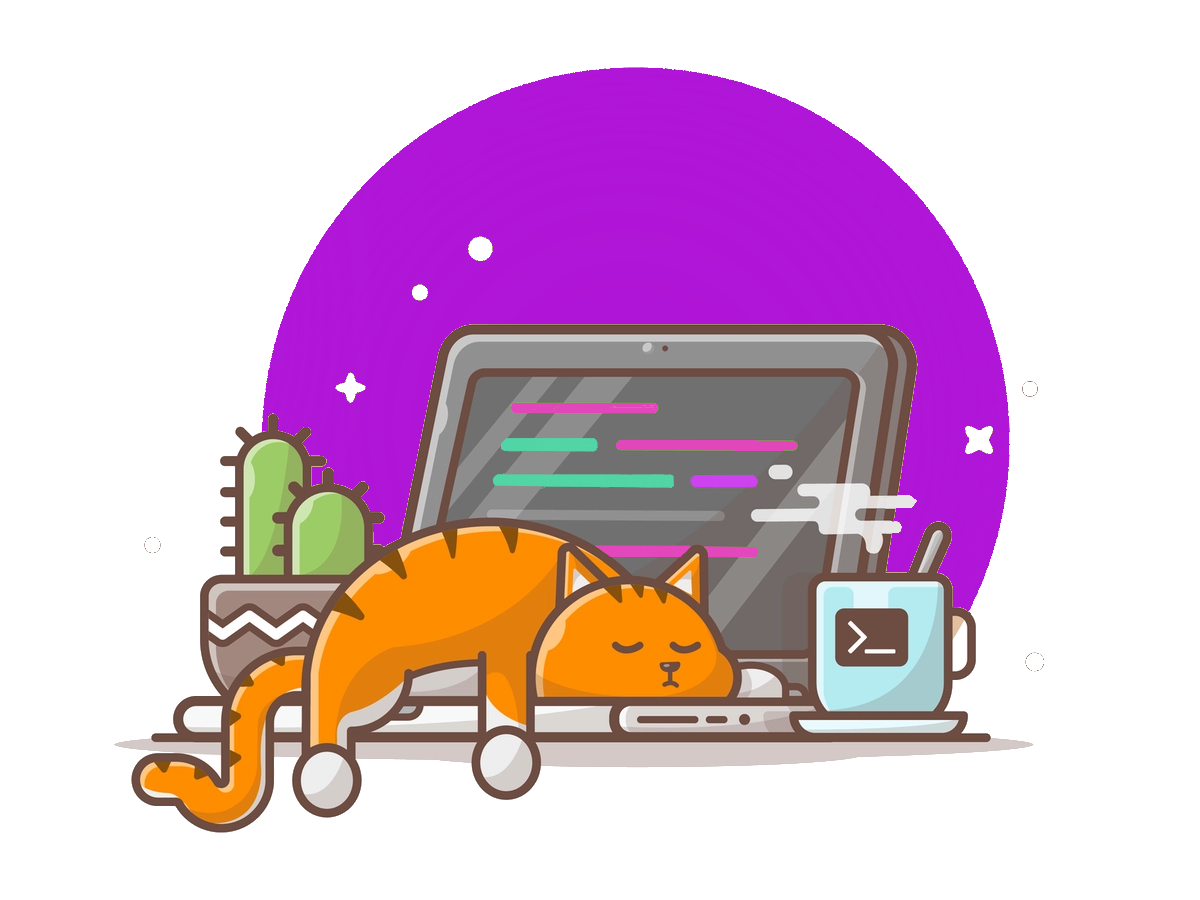
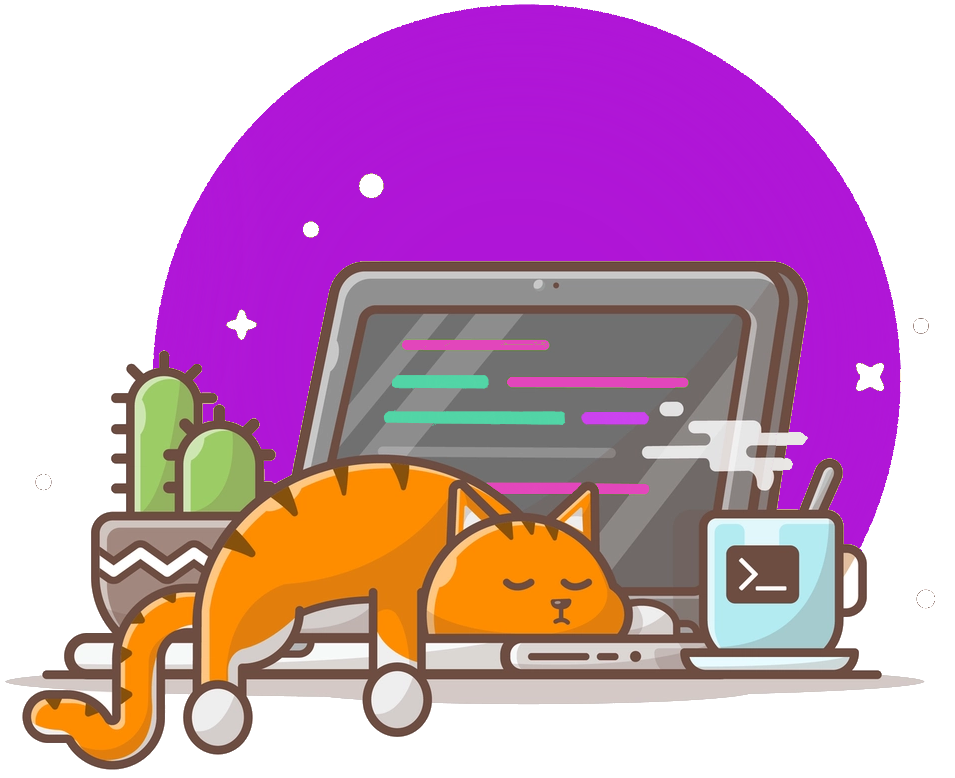
Agregue imagenes, reemplaze algunos lorem por texto, cambie el fondo del Footer e hice cambios en la seccion contactame, en los iconos

diff --git a/index.html b/index.html
@@ -46,7 +46,7 @@
                     </div>
 
                     <div class="box-hola-img">
-                        <img src="img/cat-developer.png" width="500px" alt="Una ilustracion de una chica programadora">
+                        <img src="img/cat-developer.png" width="100%" alt="Una ilustracion de una chica programadora">
                     </div>
 
                 </div>
@@ -64,27 +64,27 @@
 
                     <div class="box-conoc-boxes">
                         <div class="box-conoc">
-                            <img src="img/html5.svg" width="65px" alt="">
+                            <img src="img/html5.svg" width="40%" alt="imagen del icono de HTML">
                             <p>HTML 5</p>
                         </div>
                         <div class="box-conoc">
-                            <img src="img/css3.svg" width="65px" alt="">
+                            <img src="img/css3.svg" width="40%" alt="imagen del icono de CSS">
                             <p>CSS 3</p>
                         </div>
                         <div class="box-conoc">
-                            <img src="img/sass.svg" width="65px" alt="">
+                            <img src="img/sass.svg" width="40%" alt="imagen del icono de Sass">
                             <p>Sass</p>
                         </div>
                         <div class="box-conoc">
-                            <img src="img/js.svg" width="65px" alt="">
+                            <img src="img/js.svg" width="40%" alt="imagen del icono de JavaScript">
                             <p>JavaScript</p>
                         </div>
                         <div class="box-conoc">
-                            <img src="img/react.svg" width="65px" alt="">
+                            <img src="img/react.svg" width="40%" alt="imagen del icono de React">
                             <p>React</p>
                         </div>
                         <div class="box-conoc">
-                            <img src="img/git.svg" width="75px" alt="">
+                            <img src="img/git.svg" width="75px" alt="imagen del icono de Git">
                             <p>GIT</p>
                         </div>
                     </div>
@@ -96,7 +96,7 @@
             <!-- Comienza el Section CITA -->
             <section class="seccion-cita">
                 <div class="box-cita-principal">
-                    <img src="img/comillas.svg" width="80px" alt="">
+                    <img src="img/comillas.svg" width="8%" alt="">
                     <p>“Si puedes soñarlo puedes hacerlo, recuerda que todo esto comenzó con un ratón.”
                         </p>
                     <h2>Walt Disney</h2>
@@ -109,23 +109,23 @@
                 <div class="box-proyectos-principal">
 
                     <h2>Mis Proyectos</h2>
-                    <p>Lorem ipsum dolor sit amet consectetur adipisicing elit. Ullam vel rem quaerat, nisi ut voluptatum non quidem aperiam iusto vero minima optio, in tempore veniam quae? Eius assumenda laudantium molestias.</p>
+                    <p>Estos son los proyectos que fuí realizando en mi transcurso como estudiante de Ada ITW.</p>
 
                     <div class="box-proyectos-boxes">
 
-                        <a class="box-proyectos" href="#"><img src="img/developer.svg" width="230px" alt="">Portafolio</a>
+                        <a class="box-proyectos" href="#"><img src="img/portafolio.png" width="100%" alt="">Portafolio</a>
                         
-                        <a class="box-proyectos" href="#"><img src="img/developer.svg" width="230px" alt="">Generador de memes</a>
+                        <a class="box-proyectos" href="#"><img src="img/meme.svg" width="80%" alt="">Generador de memes</a>
                         
-                        <a class="box-proyectos" href="#"><img src="img/developer.svg" width="230px" alt="">Match 3</a>
+                        <a class="box-proyectos" href="#"><img src="img/match3.svg" width="80%" alt="">Match 3</a>
 
-                        <a class="box-proyectos" href="#"><img src="img/developer.svg" width="230px" alt="">Controlador de Gastos</a>
+                        <a class="box-proyectos" href="#"><img src="img/gastos.svg" width="80%" alt="">Controlador de Gastos</a>
 
-                        <a class="box-proyectos" href="#"><img src="img/developer.svg" width="230px" alt="">Administrador de reuniones</a>
+                        <a class="box-proyectos" href="#"><img src="img/reuniones.svg" width="80%" alt="">Administrador de reuniones</a>
 
-                        <a class="box-proyectos" href="#"><img src="img/developer.svg" width="230px" alt="">Todo app</a>
+                        <a class="box-proyectos" href="#"><img src="img/app.svg" width="80%" alt="">Todo app</a>
 
-                        <a class="box-proyectos" href="#"><img src="img/developer.svg" width="230px" alt="">Buscador de películas</a>
+                        <a class="box-proyectos" href="#"><img src="img/peliculas.svg" width="80%" alt="">Buscador de películas</a>
 
                     </div>
 
@@ -135,19 +135,22 @@
 
             <!-- Comienza el Section CONTACTO -->
             <section id="contacto" class="seccion-contacto">
+
                 <div class="box-contacto-principal">
+                    
                     <div class="box-contacto-contactame">
                         <h2>Contactame</h2>
                         <p>Lorem ipsum dolor, sit amet consectetur adipisicing elit. Maiores in consequuntur exercitationem facilis ducimus doloribus quae culpa. Maxime, in iste laborum enim nulla incidunt dolor suscipit qui minima voluptates quas!</p>
                         <div class="box-contacto-lista">
                             <ul>
-                                <li><a class="box-contacto-links" href="https://www.instagram.com/kndtop/" target="_blank"><i class="fab fa-instagram-square"></i>@kndtop</a></li>
+                                <li><a class="box-contacto-links" href="https://www.instagram.com/kndtop/" target="_blank"><i class="fab fa-instagram"></i>@kndtop</a></li>
                                 <li><a class="box-contacto-links" href="https://github.com/Candela-Burgos" target="_blank"><i class="fab fa-github-alt"></i>Candela-Burgos</a></li>
                                 <li><a class="box-contacto-links" href="https://www.linkedin.com/in/candela-burgos-11a573220/" target="_blank"><i class="fab fa-linkedin-in"></i>candela-burgos</a></li>
                                 <li><a class="box-contacto-links" href="mailto:candelaburgos10@yahoo.com" target="_blank"><i class="fas fa-envelope"></i>candelaburgos10@yahoo.com</a></li>
                             </ul>
                         </div>
                     </div>
+
                     <div class="box-contacto-escribime">
                         <h2>Escribime</h2>
                         <div class="box-first-second-name">
@@ -197,7 +200,7 @@
                 
                 <ul class="centrar-ul">
 
-                    <li><a class="icon-a" href="https://www.instagram.com/kndtop/" target="_blank"><i class="fab fa-instagram-square"></i></a></li>
+                    <li><a class="icon-a" href="https://www.instagram.com/kndtop/" target="_blank"><i class="fab fa-instagram"></i></a></li>
 
                     <li><a class="icon-a" href="https://github.com/Candela-Burgos" target="_blank"><i class="fab fa-github-alt"></i></a></li>
 
@@ -207,7 +210,7 @@
 
                 </ul>
                 
-                <p>Hecho con ♥ por Candela</p>
+                <p>Hecho con 💖 por Candela</p>
 
                 </div>
 

diff --git a/css/style.css b/css/style.css
@@ -8,7 +8,7 @@
 /* body{
     width: 100%;
     height: 100%;
-    box-shadow: inset -20px 0px 30px 0px rgb(228, 225, 225);
+    box-shadow: inset -5px 0px 20px 0px #a3a3a3;
 } */
 
 /******************
@@ -22,7 +22,7 @@ header{
     max-height: 13%;
     width: 100%;
     padding: 1.9em 0em;
-    box-shadow: 0px 3px 30px 0px rgb(228, 225, 225);
+    box-shadow: 0px 3px 30px 0px #a3a3a3;
     background-color: #ffffff; 
     position: fixed;
     top: 0;
@@ -136,6 +136,7 @@ header{
 }
 
 .box-hola-titulo>.boton{
+    flex: 0 1 30%;
     max-width: 30%;
     word-spacing: 2px;
     text-decoration: none;
@@ -333,6 +334,10 @@ header{
 }
 
 .box-proyectos{
+    display: flex;
+    justify-content: center;
+    align-items: center;
+    flex-wrap: wrap;
     flex: 0 1 31%;
     text-decoration: none;
     color: #2e2e2e;
@@ -437,91 +442,66 @@ header{
 
 .box-contacto-lista>ul>li>a{
     text-decoration: none;
-    color: #af15d6;
+    color: #2e2e2e;
     padding-bottom: 0.25em;
 }
 
-.box-contacto-lista>ul>li>a>.fa-instagram-square{
-    font-size: 1.375rem;
-    margin-right: 0.625em;
+.box-contacto-links{
+    display: flex;
+    align-items: center;
 }
 
-.box-contacto-lista>ul>li>a>.fa-github-alt{
-    font-size: 1.375rem;
-    margin-right: 0.625em;
+.box-contacto-links>.fa-instagram::before{
+    content: "/f16d";
 }
 
-.box-contacto-lista>ul>li>a>.fa-linkedin-in{
-    font-size: 1.375rem;
-    margin-right: 0.625em;
+.box-contacto-links>.fa-github-alt::before{
+    content: "/f113";
 }
 
-.box-contacto-lista>ul>li>a>.fa-envelope{
-    font-size: 1.375rem;
-    margin-right: 0.625em;
+.box-contacto-links>.fa-linkedin-in::before{
+    content: "/f0e1";
 }
 
+.box-contacto-links>.fa-envelope::before{
+    content: "/f0e0";
+}
+
+.box-contacto-links>.fa-instagram, .box-contacto-links>.fa-github-alt, .box-contacto-links>.fa-linkedin-in, .box-contacto-links>.fa-envelope{
+    font-size: 1.5rem;
+    margin-right: 0.6em;
+    text-align: center;
+    background-color: #ffffff;
+    border: 1px solid #ffffff;
+    border-radius: 50%; 
+    /*padding: .1em .2em; */
+    /* font-size: 1.5em;
+    color: #af15d6;
+    text-align: center;
+    background-color: #ffffff;
+    padding: .3em .4em;
+    border-radius: 50%;
+    border: 1px solid #ffffff; */
+}
+ 
 /***********************
     Hover CONTACTAME
 ************************/
 
 .box-contacto-lista>ul>li>a:hover{
-    text-decoration: none;
-    color: #e246bb;
+    color: #af15d6;
 }
 
-/* 
-.box-contacto-links>.fa-instagram-square:hover{
-    font-size: 1.375rem;
-    margin-right: 0.625em;
-    width: 5%;
-    height: 100%;
+.box-contacto-links>.fa-instagram:hover, .box-contacto-links>.fa-github-alt:hover, .box-contacto-links>.fa-linkedin-in:hover, .box-contacto-links>.fa-envelope:hover{
     padding: .2em;
     border-radius: 50%;
     text-align: center;
     color: #ffffff;
     background-color: #af15d6;
-    transition: .4s;
-}
-
-.box-contacto-links>.fa-github-alt:hover{
-    font-size: 1.375rem;
-    margin-right: 0.625em;
-    width: 5%;
-    height: 100%;
-    padding: .2em;
-    border-radius: 50%;
-    text-align: center;
+    border: 1px solid #af15d6;
     color: #ffffff;
-    background-color: #af15d6;
-    transition: .4s;
-}
-
-.box-contacto-links>.fa-linkedin-in:hover{
-    font-size: 1.375rem;
-    margin-right: 0.625em;
-    width: 5%;
-    height: 100%;
-    padding: .2em;
-    border-radius: 50%;
-    text-align: center;
-    color: #ffffff;
-    background-color: #af15d6;
-    transition: .4s;
-}
-
-.box-contacto-links>.fa-envelope:hover{
-    font-size: 1.375rem;
-    margin-right: 0.625em;
-    width: 5%;
-    height: 100%;
-    padding: .2em;
-    border-radius: 50%;
-    text-align: center;
-    color: #ffffff;
-    background-color: #af15d6;
-    transition: .4s;
-} */
+    transition: .3s;
+} 
 
 /***********************
      Caja ESCRIBIME
@@ -688,7 +668,7 @@ label{
     flex-direction: column;
     justify-content: center;
     align-items: center;
-    background-image: url(../img/ladrillos.jpg);
+    background-image: url(../img/footer.jpg);
     height: 300px;
     background-position: center;
     background-repeat: no-repeat;
@@ -732,15 +712,14 @@ label{
 .lista>.centrar-ul>li>.icon-a{
     font-size: 1.5em;
     color: #af15d6;
-    margin: 0em .5em 0em .5em;
     text-align: center;
     background-color: #ffffff;
     padding: .3em .4em;
     border-radius: 50%;
+    border: 1px solid #ffffff;
 }
 
 .lista>.centrar-ul>li>.icon-a:hover{
-    margin: 0em .5em 0em .5em;
     background-color: transparent;
     border: 1px solid #af15d6;
     transition: .3s;
